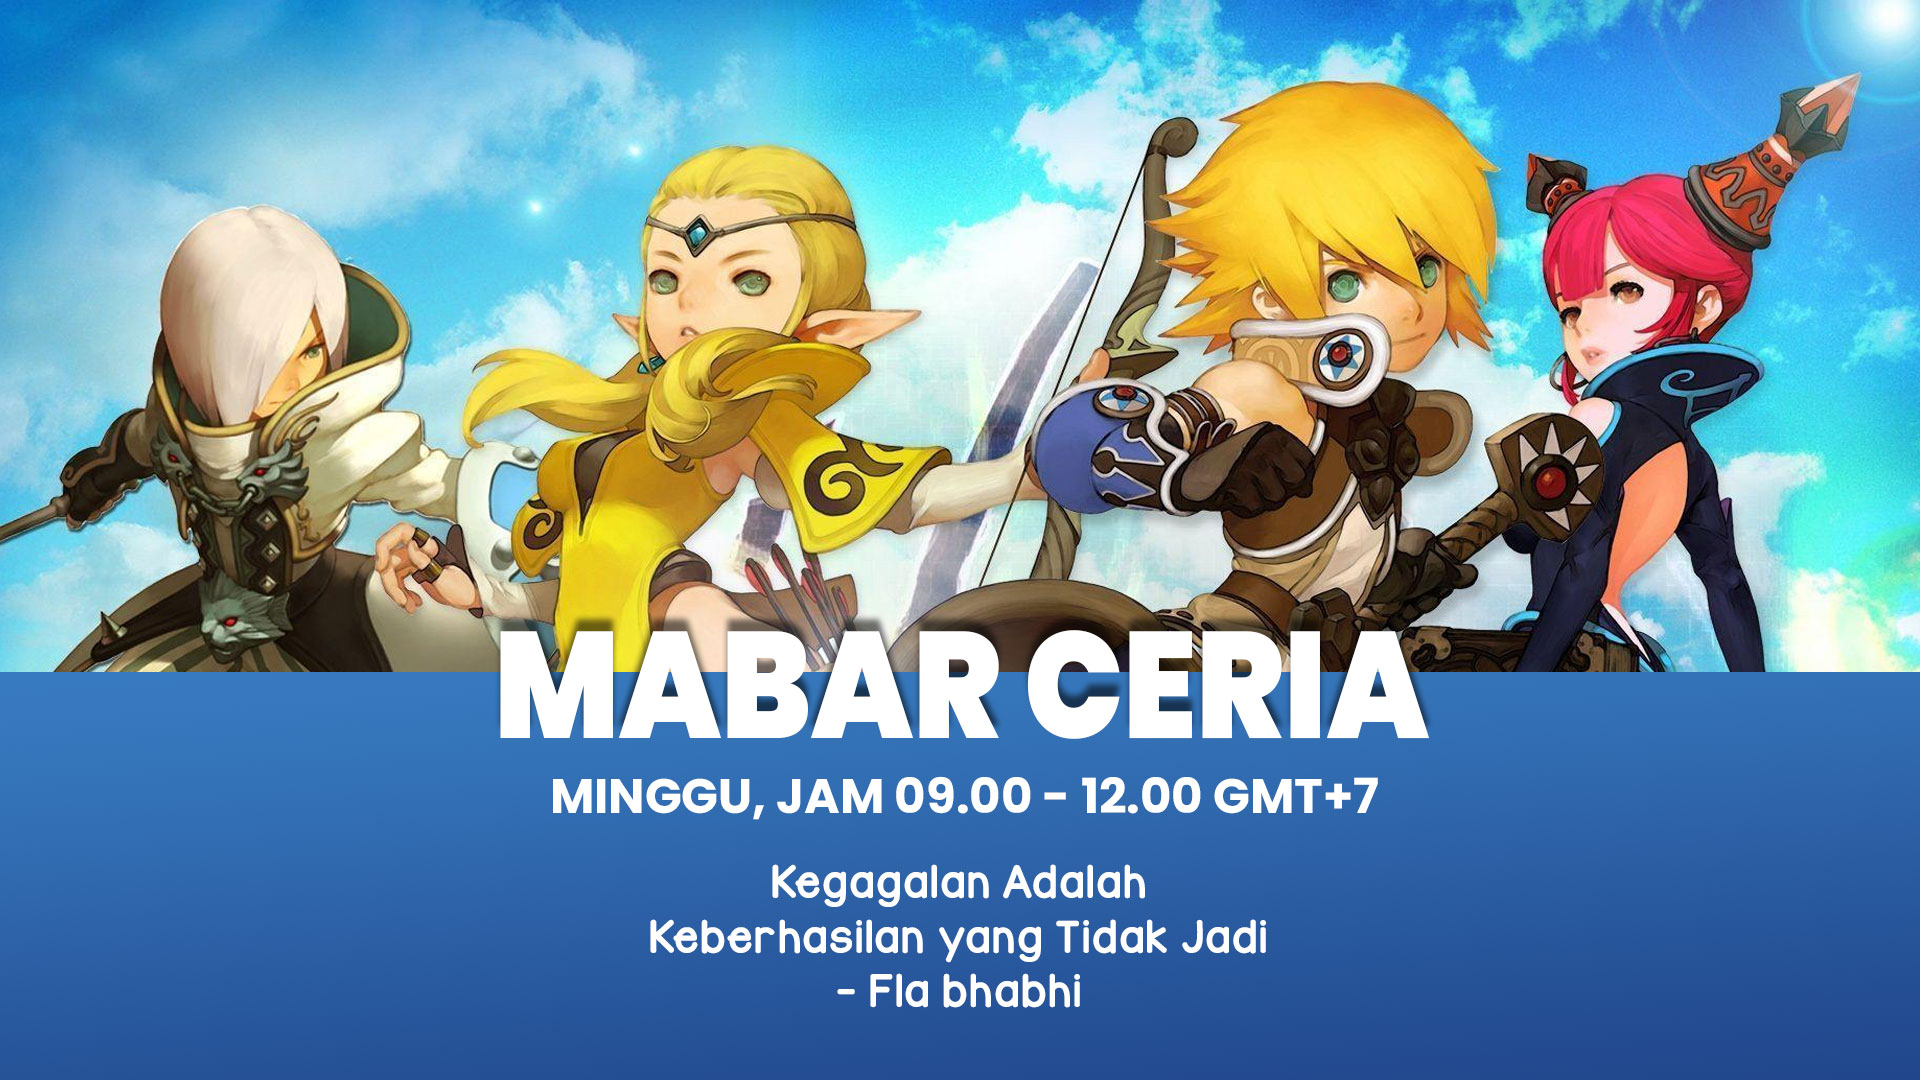
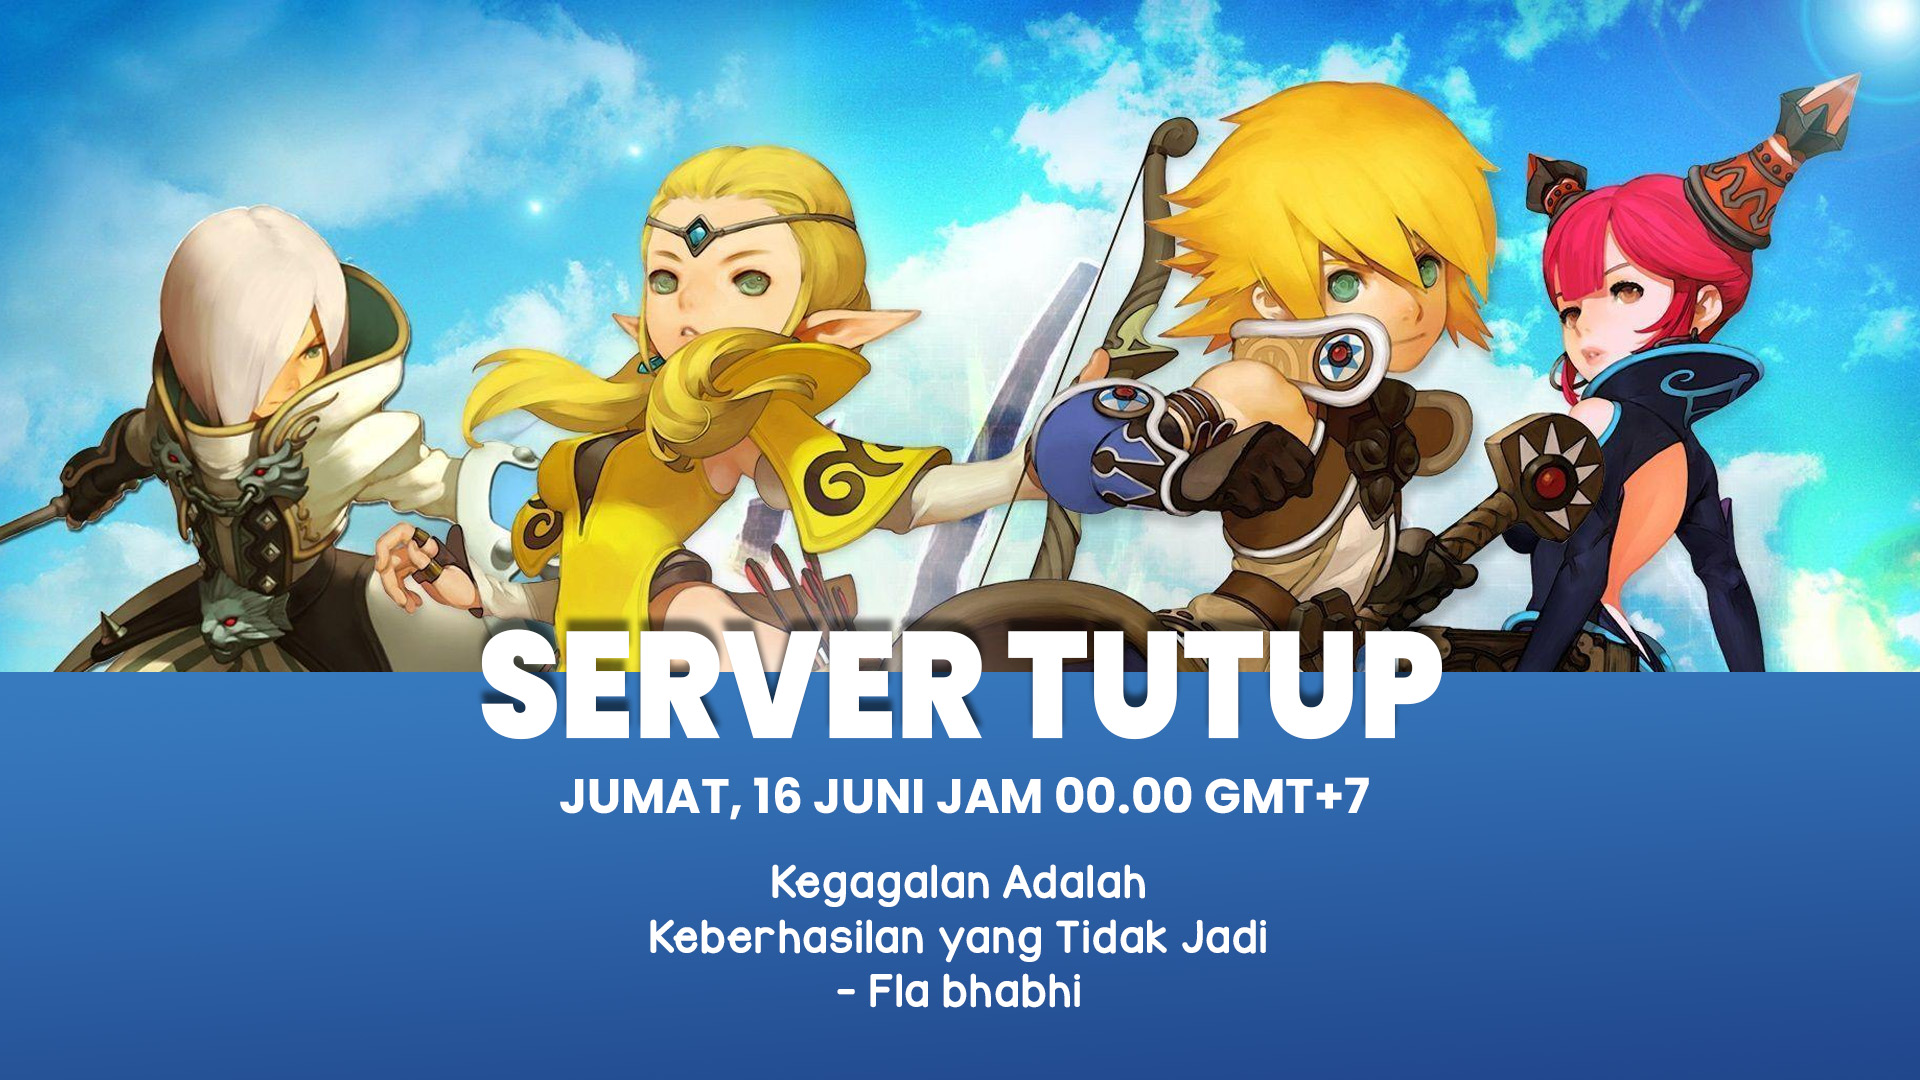
close server

Changed region(s): [[0.25, 0.55, 0.75, 0.7639]]

diff --git a/plakat.html b/plakat.html
@@ -1,0 +1,138 @@
+<!DOCTYPE html>
+<html lang="en">
+  <head>
+    <title>GOBLOCK SQUAD - DRAGON NEST M</title>
+    <link
+      rel="apple-touch-icon"
+      sizes="180x180"
+      href="favicon/apple-touch-icon.png"
+    />
+    <link
+      rel="icon"
+      type="image/png"
+      sizes="32x32"
+      href="favicon/favicon-32x32.png"
+    />
+    <link
+      rel="icon"
+      type="image/png"
+      sizes="16x16"
+      href="favicon/favicon-16x16.png"
+    />
+    <link rel="manifest" href="favicon/site.webmanifest" />
+    <meta charset="utf-8" />
+    <meta http-equiv="X-UA-Compatible" content="IE=edge" />
+    <meta name="viewport" content="width=device-width, initial-scale=1.0" />
+    <meta name="description" content="Squad game mobile Dragon Nest M" />
+    <meta name="JRJR" content="Game" />
+    <link rel="stylesheet" href="asset/style.css" />
+  </head>
+
+  <body>
+    <header class="element">
+      <div class="img-depan2">
+        <a href="index.html">
+          <img src="asset/img/btn_5.png" alt="Gambar Anda"
+        /></a>
+      </div>
+      <!-- <button class="header-button">
+        <a href="index.html">
+          <img src="asset/img/btn_1.png" alt="Tombol Gambar"
+        /></a>
+      </button>
+
+      <button class="header-button">
+        <img src="asset/img/btn_3.png" alt="Tombol Gambar" />
+      </button> -->
+    </header>
+
+    <script>
+      function play() {
+        var audio = document.getElementById("audio");
+        audio.play();
+      }
+      function stopMusic() {
+        var audio = document.getElementById("audio");
+        audio.pause();
+        audio.currentTime = 0;
+      }
+    </script>
+    <audio id="audio" src="asset/bgm2.mp3" loop></audio>
+    <!-- END MUSIK -->
+
+    <!-- <div id="popup" class="popup2">
+      <div class="popup-content2">
+        <h2>TEAM SQUAD</h2>
+        <div class="containerpopu">
+          <img src="asset/img/spinner2.gif" class="imgpopu" alt="Gambar" />
+        </div>
+
+        <button id="closePopup" class="my-button" value="PLAY" onclick="play()">
+          GO TO CALDEROCK VILLAGE
+        </button>
+      </div>
+    </div> -->
+
+    <div class="containerplakat">
+      <!-- <img src="asset/img/irineloading.gif" alt="Logo" /> -->
+      <div class="slider">
+        <img src="asset/img/plakat1.jpg" class="active" />
+        <img src="gambar2.jpg" />
+        <img src="gambar3.jpg" />
+        <!-- Tambahkan gambar-gambar tambahan di sini -->
+      </div>
+    </div>
+
+    <div class="containertombolplakat">
+      <!-- <img src="asset/img/irineloading.gif" alt="Logo" /> -->
+      <div class="slidertombol">
+        <div class="slider-controls">
+          <button id="prevBtn">Prev</button>
+          <button id="nextBtn">Next</button>
+        </div>
+      </div>
+    </div>
+
+    <div class="bg-image plakat1"></div>
+    <div class="bg-image plakat1"></div>
+    <!-- Stop musik -->
+    <div class="floating-button">
+      <a href="#" value="pause" onclick="stopMusic()"
+        ><img src="asset/img/btn_sound.png" alt="Tombol Gambar"
+      /></a>
+    </div>
+
+    <footer>Created by JRJR &copy; 2023.</footer>
+
+    <!-- JAVASCRIPT -->
+    <script src="asset/js.js"></script>
+
+    <script>
+      function myFunction() {
+        // Aksi yang ingin dilakukan saat tombol gambar diklik
+        alert("SOON!");
+      }
+
+      var images = document.querySelectorAll(".slider img");
+      var currentImage = 0;
+
+      function showNextImage() {
+        images[currentImage].classList.remove("active");
+        currentImage = (currentImage + 1) % images.length;
+        images[currentImage].classList.add("active");
+      }
+
+      function showPreviousImage() {
+        images[currentImage].classList.remove("active");
+        currentImage = (currentImage - 1 + images.length) % images.length;
+        images[currentImage].classList.add("active");
+      }
+
+      var nextBtn = document.getElementById("nextBtn");
+      nextBtn.addEventListener("click", showNextImage);
+
+      var prevBtn = document.getElementById("prevBtn");
+      prevBtn.addEventListener("click", showPreviousImage);
+    </script>
+  </body>
+</html>

diff --git a/asset/style.css b/asset/style.css
@@ -156,6 +156,11 @@ body.loaded #loading-overlay {
   background-image: url("img/teamfooter.jpg");
 }
 
+/* Images used plakat */
+.plakat1 {
+  background-image: url("img/page1.jpg");
+}
+
 /* Position text in the middle of the page/image */
 .bg-text {
   background-color: rgb(0, 0, 0);
@@ -181,6 +186,32 @@ body.loaded #loading-overlay {
   max-width: 100%;
   height: auto;
   top: 38%;
+  /* text-align: center; */
+  width: 470px;
+  /* membuat gambar tidak ke samping */
+  overflow: hidden;
+  left: 50%;
+  transform: translate(-50%, -50%);
+}
+
+.containerplakat {
+  position: absolute;
+  max-width: 100%;
+  height: auto;
+  top: 38%;
+  /* text-align: center; */
+  width: 470px;
+  /* membuat gambar tidak ke samping */
+  overflow: hidden;
+  left: 50%;
+  transform: translate(-50%, -50%);
+}
+
+.containertombolplakat {
+  position: absolute;
+  max-width: 100%;
+  height: auto;
+  top: 43%;
   /* text-align: center; */
   width: 470px;
   /* membuat gambar tidak ke samping */
@@ -430,4 +461,49 @@ header {
   100% {
     transform: rotate(3deg);
   }
+}
+
+.slider {
+  position: relative;
+  height: 200px;
+  overflow: hidden;
+  border-style: dotted;
+  border-radius: 5%;
+}
+
+.slidertombol {
+  position: relative;
+  height: 300px;
+  overflow: hidden;
+}
+
+.slider img {
+  position: absolute;
+  top: 0;
+  left: 0;
+  width: 100%;
+  height: 100%;
+  opacity: 0;
+  transition: opacity 1s ease-in-out;
+}
+
+.slider img.active {
+  opacity: 1;
+}
+
+.slider-controls {
+  position: absolute;
+  top: 95%;
+  left: 33%;
+  transform: translateY(-50%);
+}
+
+.slider-controls button {
+  background-color: transparent;
+  font-weight: 600;
+  border: none;
+  color: #fff;
+  font-size: 24px;
+  margin-right: 10px;
+  cursor: pointer;
 }
